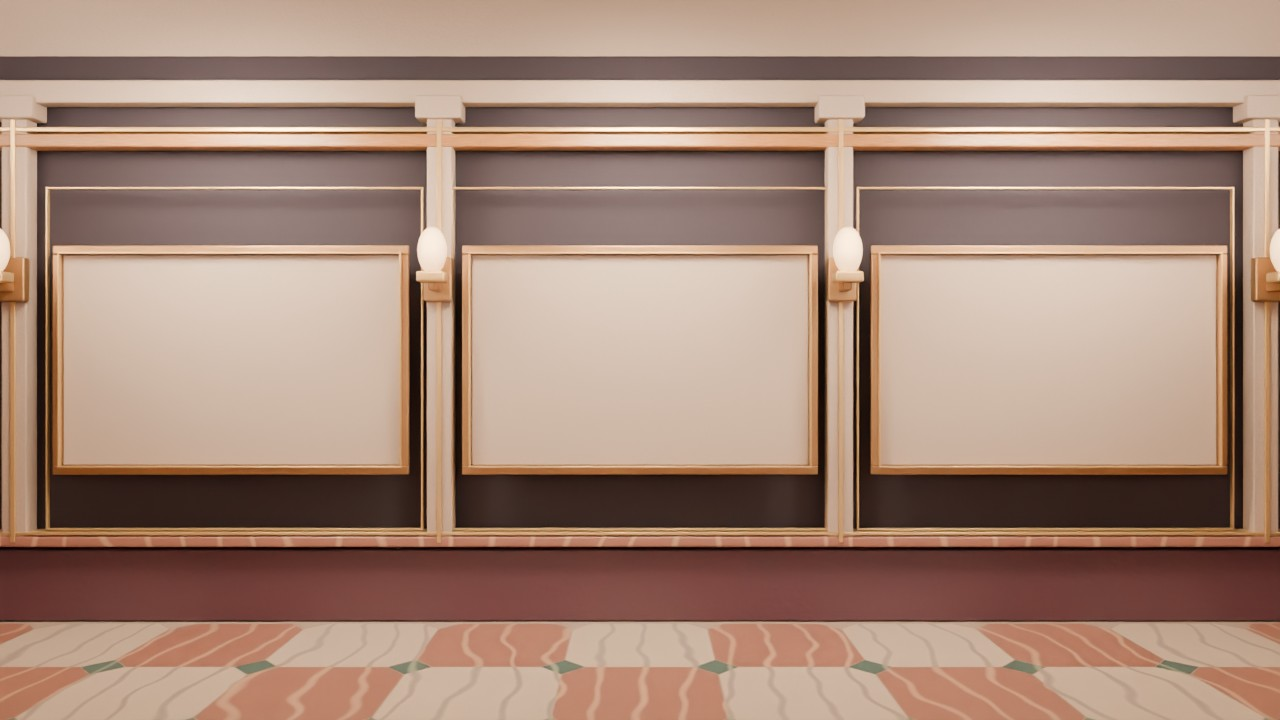
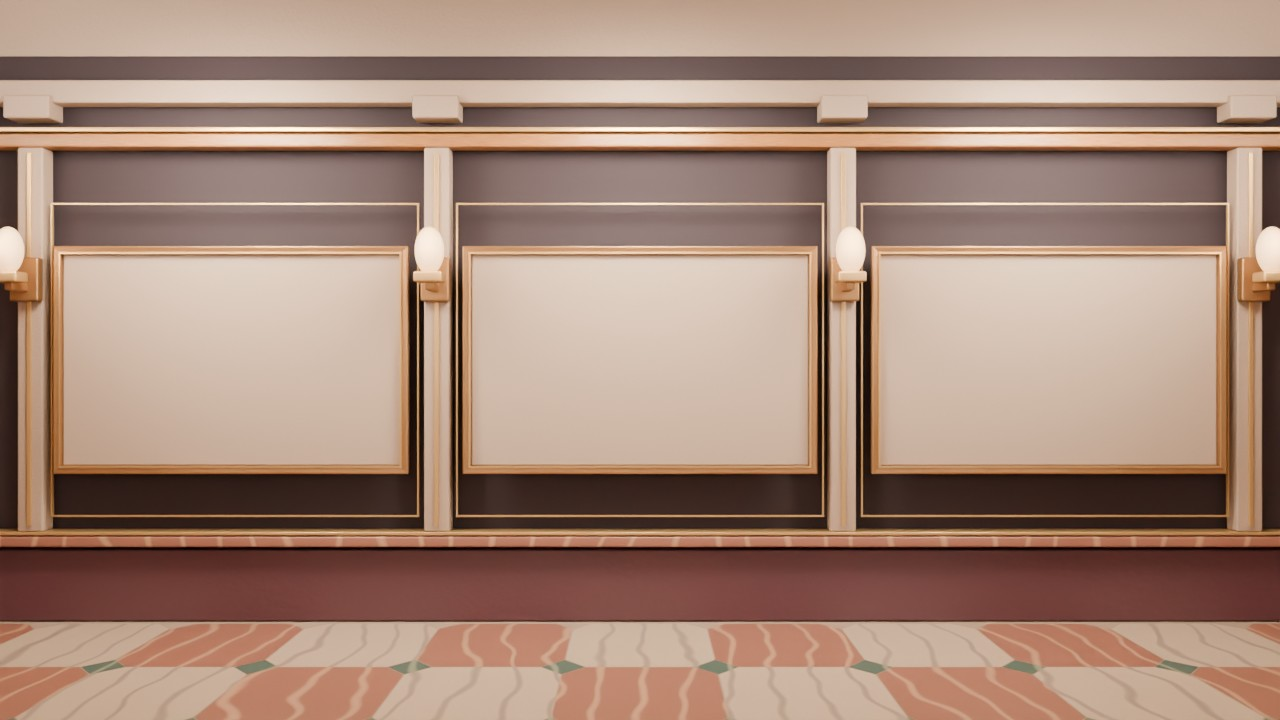
fix: align gallery pilasters and join frame moldings

Changed region(s): [[0.0, 0.1222, 1.0, 0.7639]]

diff --git a/blender/ajustar_encuentros_galeria.py b/blender/ajustar_encuentros_galeria.py
@@ -1,0 +1,105 @@
+"""Ajustar los remates de la pared expositiva de v25 y actualizar su vista frontal."""
+from pathlib import Path
+import sys
+
+import bpy
+from mathutils import Vector
+
+
+scene = bpy.context.scene
+source = Path(bpy.data.filepath)
+assert source.name == "museo_portada_v25_coleccion_final.blend"
+destination = source.with_name("museo_portada_v26_remates.blend")
+if destination.exists():
+    raise FileExistsError(destination)
+preview = Path(sys.argv[sys.argv.index("--") + 1])
+group = bpy.data.collections["Selected works · pared editorial"]
+
+
+def limits(obj):
+    heights = [(obj.matrix_world @ Vector(p)).z for p in obj.bound_box]
+    return min(heights), max(heights)
+
+
+def fit_height(obj, bottom, top):
+    old_bottom, old_top = limits(obj)
+    obj.scale.z *= (top-bottom)/(old_top-old_bottom)
+    bpy.context.view_layer.update()
+    obj.location.z += bottom-limits(obj)[0]
+
+
+# Los frisos continuos reciben los extremos de las cuatro pilastras.
+rails = sorted((o for o in scene.objects if o.name.startswith("Friso de galería")),
+               key=lambda o: limits(o)[0])
+bottom = limits(rails[1])[1]
+top = limits(rails[2])[0]
+assert 1.7 < bottom < 1.8 and 4.5 < top < 4.7
+pilasters = []
+stripes = []
+for obj in scene.objects:
+    if obj.name.startswith(("Pilastra de fondo", "Filete de pilastra", "Capitel de fondo",
+                            "Aplique ·", "Luz del aplique")):
+        obj.location.x = (1 if obj.location.x > 0 else -1) * (1.5 if abs(obj.location.x)<3 else 4.5)
+    if obj.name.startswith("Pilastra de fondo"):
+        pilasters.append(obj)
+        fit_height(obj,bottom,top)
+    elif obj.name.startswith("Filete de pilastra"):
+        stripes.append(obj)
+        fit_height(obj,bottom+.045,top-.045)
+
+
+def molding(name, x, width, height, profile, materials):
+    """Un solo perfil continuo alrededor de los cuatro ingletes."""
+    vertices = []
+    faces = []
+    for outset, y, _ in profile:
+        for sx, sz in ((-1,-1),(1,-1),(1,1),(-1,1)):
+            vertices.append((x+sx*(width/2+outset), y, 3.03+sz*(height/2+outset)))
+    for k in range(len(profile)):
+        following = (k+1) % len(profile)
+        for j in range(4):
+            end = (j+1) % 4
+            faces.append((4*k+j,4*k+end,4*following+end,4*following+j))
+    mesh = bpy.data.meshes.new(name)
+    mesh.from_pydata(vertices, [], faces)
+    mesh.update()
+    for mat in materials:
+        mesh.materials.append(mat)
+    for poly in mesh.polygons:
+        poly.material_index = profile[poly.index//4][2]
+    obj = bpy.data.objects.new(name,mesh)
+    group.objects.link(obj)
+    return obj
+
+
+old = [o for o in group.objects if o.name.startswith(("Travesaño","Montante"))]
+assert len(old)==36 and len(pilasters)==len(stripes)==4
+for obj in old:
+    bpy.data.objects.remove(obj,do_unlink=True)
+gold = bpy.data.materials["Filete · latón satinado"]
+bronze = bpy.data.materials["Bronce cepillado"]
+for x in (-3,0,3):
+    molding("Marco continuo · bronce y latón",x,2.48,1.55,
+            [(0,20.88,1),(.012,20.88,1),(.018,20.893,0),(.048,20.887,0),
+             (.059,20.893,0),(.059,20.951,0),(0,20.951,0)], [bronze,gold])
+    molding("Recuadro de latón",x,2.70,2.30,
+            [(0,21.015,0),(0,20.988,0),(.012,20.988,0),(.012,21.015,0)],[gold])
+bpy.context.view_layer.update()
+assert all(abs(limits(o)[0]-bottom)<.001 and abs(limits(o)[1]-top)<.001 for o in pilasters)
+assert all(bottom+.04<limits(o)[0] and limits(o)[1]<top-.04 for o in stripes)
+assert (1.5-.19/2)-(2.70/2+.012)>.04
+
+scene.frame_set(0)
+scene.render.filepath="//coleccion_v26_frames/frame_"
+bpy.ops.wm.save_as_mainfile(filepath=str(destination))
+scene.frame_set(108)
+scene.objects["Rohan au Louvre"].hide_render=True
+scene.render.engine="CYCLES"
+scene.cycles.samples=12
+scene.cycles.use_denoising=True
+scene.render.resolution_x,scene.render.resolution_y=1280,720
+scene.render.resolution_percentage=100
+scene.render.image_settings.file_format="JPEG"
+scene.render.image_settings.quality=90
+scene.render.filepath=str(preview)
+bpy.ops.render.render(write_still=True)
